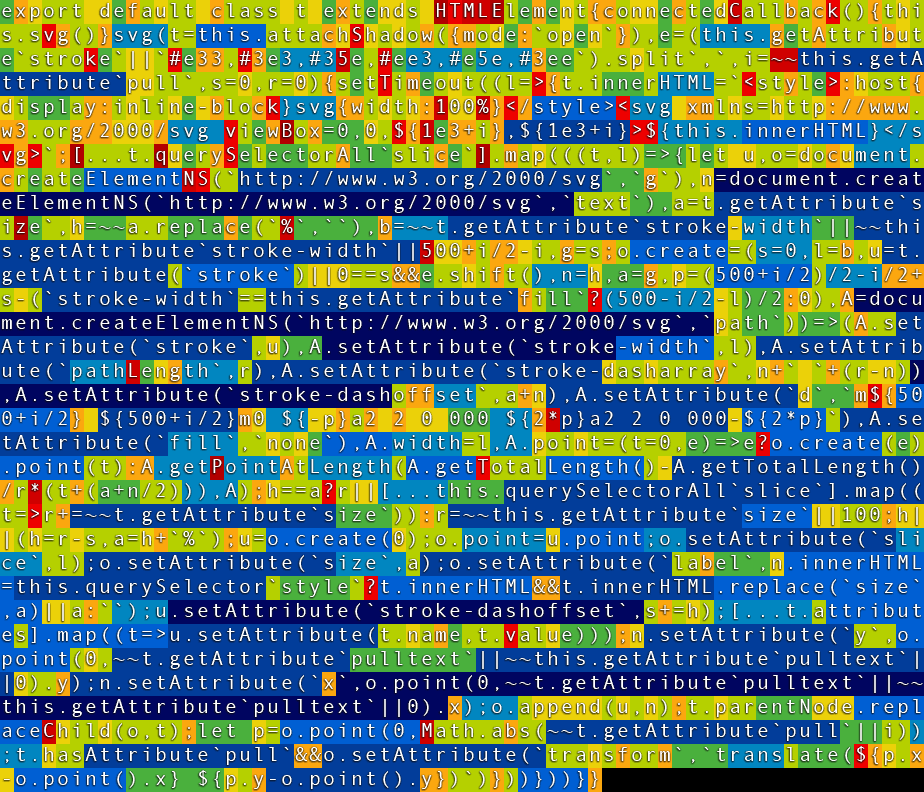
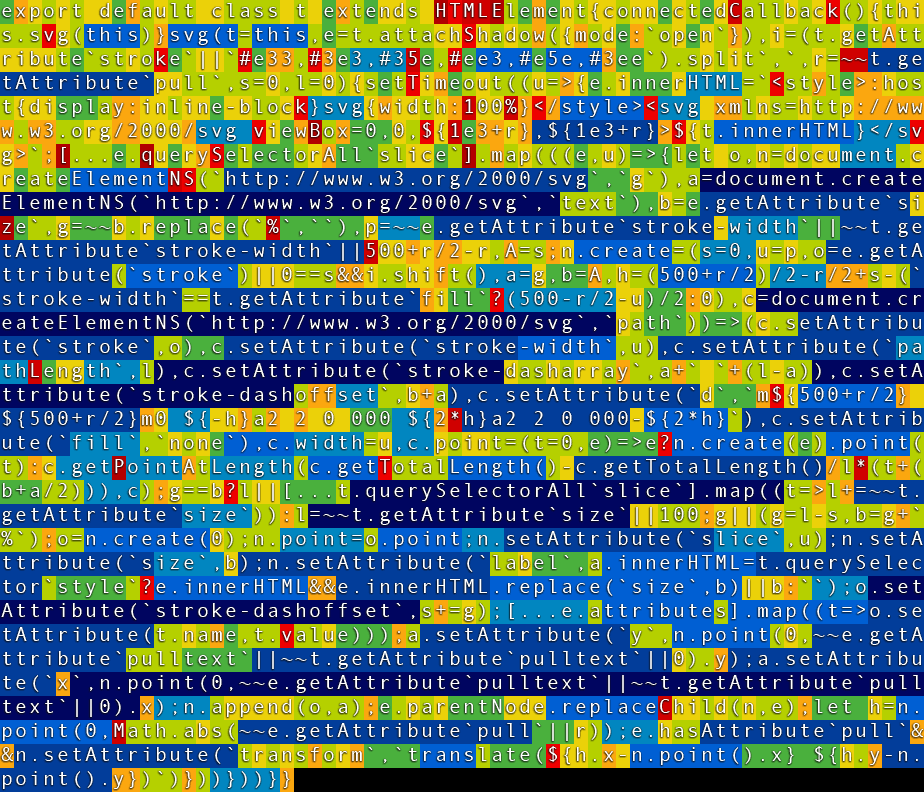
v3

diff --git a/PieMeister.js b/PieMeister.js
@@ -19,7 +19,7 @@ export default class PieMeister extends HTMLElement {
     this.svg();
   }
   // declared as method .svg so user can redraw a chart
-  // this Component does not track for changed attributes (yet)
+  // Component does not track for changed attributes (yet)
   // Process the user-defined lightDOM, create an SVG element, then replace all <slice> with:
   // <g slice> grouped as one slice
   //    <path>  using stroke-dasharray to draw slices!
@@ -31,11 +31,12 @@ export default class PieMeister extends HTMLElement {
       // todo: add constructor
       mode: `open`,
     }),
+    THIS = this,
     // =========================================================================== optional user parameters
-    colors = (this.getAttribute`stroke` || `#e33,#3e3,#35e,#ee3,#e5e,#3ee`)
+    colors = (THIS.getAttribute`stroke` || `#e33,#3e3,#35e,#ee3,#e5e,#3ee`)
       .split`,`, //  #f2e  #962
-    pull = ~~this.getAttribute`pull`, // how far a slice can be pulled outward
-    //gap = Number(this.getAttribute`gap`), //! between slices, messes up % calcs
+    pull = ~~THIS.getAttribute`pull`, // how far a slice can be pulled outward
+    //gap = Number(THIS.getAttribute`gap`), //! between slices, messes up % calcs
     // =========================================================================== configuration
     // Component controlled variables (code golf, saves 4 bytes let statement)
     dashoffset = 0, // clockwise - incremental stroke offset for each slice
@@ -51,10 +52,10 @@ export default class PieMeister extends HTMLElement {
       // default viewBox = 1000 x 1000 extra padding with pull attribute
       root.innerHTML = `<style>:host{display:inline-block}svg{width:100%}</style><svg xmlns=http://www.w3.org/2000/svg viewBox=0,0,${
         1000 + pull
-      },${1000 + pull}>${this.innerHTML}</svg>`;
+      },${1000 + pull}>${THIS.innerHTML}</svg>`;
       // append user <slice> as HTML so we keep all <slice>
       // =========================================================================== convert <slice>s to paths
-      //this.$ = [...root.querySelectorAll`slice`].map((sliceDefinition, idx) => {
+      //THIS.$ =
       [...root.querySelectorAll`slice`].map((sliceDefinition, idx) => {
         // <g> is the slice containing <path> and <text> label
         let group = document.createElementNS(`http://www.w3.org/2000/svg`, `g`);
@@ -67,7 +68,7 @@ export default class PieMeister extends HTMLElement {
         // strokeWidth = slice radius size from SVG centerpoint (500,500)
         let strokeWidth =
           ~~sliceDefinition.getAttribute`stroke-width` || // <slice stroke width=X>
-          ~~this.getAttribute`stroke-width` || // <pie-chart stroke width=X>
+          ~~THIS.getAttribute`stroke-width` || // <pie-chart stroke width=X>
           500 + pull / 2 - pull; // default Center + HALF pull margin - the pulled slice distance
         //! slice START dashoffset
         let slice_dashoffset = dashoffset;
@@ -89,7 +90,7 @@ export default class PieMeister extends HTMLElement {
           R = (500 + pull / 2) / 2 /* center point of SVG */ -
             pull / 2 +
             extraRadius -
-            (this.getAttribute`fill` == `stroke-width`
+            (THIS.getAttribute`fill` == `stroke-width`
               ? (500 - pull / 2 - __strokeWidth) / 2
               : 0),
           //! `fill` on <pie-chart> value is not used for anything
@@ -123,7 +124,7 @@ export default class PieMeister extends HTMLElement {
           // function returns the middle of the slice arc
           // becuase the method is defined within! each slice scope all variables for that one slice can be used
           // a class method would require everything as function parameters
-          // this takes more memory (who cares about memory when the full library is 1K?)
+          // takes more memory (who cares about memory when the full library is 1K?)
           // is only slower when you do over a million calls (that is 1000 pies with 1000 slices each)
           // only Mr Creosote (see Youtube) can eat that many pies
           (path.point = (offset = 0, radius) =>
@@ -144,13 +145,13 @@ export default class PieMeister extends HTMLElement {
           // NO % on first size=`N`
           if (!pathLength) {
             // calculate AND set the pathlength for No Percentage pie
-            [...this.querySelectorAll`slice`].map(
+            [...THIS.querySelectorAll`slice`].map(
               //(slice) => (pathLength += ~~slice.getAttribute`size` + gap)
               (slice) => (pathLength += ~~slice.getAttribute`size`)
             );
           }
         } else {
-          pathLength = ~~this.getAttribute`size` || 100; // default 100% pie // todo move to parameter
+          pathLength = ~~THIS.getAttribute`size` || 100; // default 100% pie // todo move to parameter
         }
         // ----------------------------------------------------------- calc remainder slice
         // size=`0` or size= `` calculates % remainder
@@ -168,7 +169,7 @@ export default class PieMeister extends HTMLElement {
         group.setAttribute(
           `label`,
           //! if a <style> is defined show a Label
-          (label.innerHTML = this.querySelector`style` // set the svg innerHTML
+          (label.innerHTML = THIS.querySelector`style` // set the svg innerHTML
             ? /* if sliceBase has a label */ (sliceDefinition.innerHTML &&
                 /* then replace % */ sliceDefinition.innerHTML.replace(
                   `size`,
@@ -194,7 +195,7 @@ export default class PieMeister extends HTMLElement {
           group.point(
             0,
             ~~sliceDefinition.getAttribute`pulltext` ||
-              ~~this.getAttribute`pulltext` ||
+              ~~THIS.getAttribute`pulltext` ||
               0
           ).y
         );
@@ -203,7 +204,7 @@ export default class PieMeister extends HTMLElement {
           group.point(
             0,
             ~~sliceDefinition.getAttribute`pulltext` ||
-              ~~this.getAttribute`pulltext` ||
+              ~~THIS.getAttribute`pulltext` ||
               0
           ).x
         );

diff --git a/PieMeister.min.js b/PieMeister.min.js
@@ -1,1 +1,1 @@
-export default class t extends HTMLElement{connectedCallback(){this.svg()}svg(t=this.attachShadow({mode:`open`}),e=(this.getAttribute`stroke`||`#e33,#3e3,#35e,#ee3,#e5e,#3ee`).split`,`,i=~~this.getAttribute`pull`,s=0,r=0){setTimeout((l=>{t.innerHTML=`<style>:host{display:inline-block}svg{width:100%}</style><svg xmlns=http://www.w3.org/2000/svg viewBox=0,0,${1e3+i},${1e3+i}>${this.innerHTML}</svg>`;[...t.querySelectorAll`slice`].map(((t,l)=>{let u,o=document.createElementNS(`http://www.w3.org/2000/svg`,`g`),n=document.createElementNS(`http://www.w3.org/2000/svg`,`text`),a=t.getAttribute`size`,h=~~a.replace(`%`,``),b=~~t.getAttribute`stroke-width`||~~this.getAttribute`stroke-width`||500+i/2-i,g=s;o.create=(s=0,l=b,u=t.getAttribute(`stroke`)||0==s&&e.shift(),n=h,a=g,p=(500+i/2)/2-i/2+s-(`stroke-width`==this.getAttribute`fill`?(500-i/2-l)/2:0),A=document.createElementNS(`http://www.w3.org/2000/svg`,`path`))=>(A.setAttribute(`stroke`,u),A.setAttribute(`stroke-width`,l),A.setAttribute(`pathLength`,r),A.setAttribute(`stroke-dasharray`,n+` `+(r-n)),A.setAttribute(`stroke-dashoffset`,a+n),A.setAttribute(`d`,`m${500+i/2} ${500+i/2}m0 ${-p}a2 2 0 000 ${2*p}a2 2 0 000-${2*p}`),A.setAttribute(`fill`,`none`),A.width=l,A.point=(t=0,e)=>e?o.create(e).point(t):A.getPointAtLength(A.getTotalLength()-A.getTotalLength()/r*(t+(a+n/2))),A);h==a?r||[...this.querySelectorAll`slice`].map((t=>r+=~~t.getAttribute`size`)):r=~~this.getAttribute`size`||100;h||(h=r-s,a=h+`%`);u=o.create(0);o.point=u.point;o.setAttribute(`slice`,l);o.setAttribute(`size`,a);o.setAttribute(`label`,n.innerHTML=this.querySelector`style`?t.innerHTML&&t.innerHTML.replace(`size`,a)||a:``);u.setAttribute(`stroke-dashoffset`,s+=h);[...t.attributes].map((t=>u.setAttribute(t.name,t.value)));n.setAttribute(`y`,o.point(0,~~t.getAttribute`pulltext`||~~this.getAttribute`pulltext`||0).y);n.setAttribute(`x`,o.point(0,~~t.getAttribute`pulltext`||~~this.getAttribute`pulltext`||0).x);o.append(u,n);t.parentNode.replaceChild(o,t);let p=o.point(0,Math.abs(~~t.getAttribute`pull`||i));t.hasAttribute`pull`&&o.setAttribute(`transform`,`translate(${p.x-o.point().x} ${p.y-o.point().y})`)}))}))}}
+export default class t extends HTMLElement{connectedCallback(){this.svg(this)}svg(t=this,e=t.attachShadow({mode:`open`}),i=(t.getAttribute`stroke`||`#e33,#3e3,#35e,#ee3,#e5e,#3ee`).split`,`,r=~~t.getAttribute`pull`,s=0,l=0){setTimeout((u=>{e.innerHTML=`<style>:host{display:inline-block}svg{width:100%}</style><svg xmlns=http://www.w3.org/2000/svg viewBox=0,0,${1e3+r},${1e3+r}>${t.innerHTML}</svg>`;[...e.querySelectorAll`slice`].map(((e,u)=>{let o,n=document.createElementNS(`http://www.w3.org/2000/svg`,`g`),a=document.createElementNS(`http://www.w3.org/2000/svg`,`text`),b=e.getAttribute`size`,g=~~b.replace(`%`,``),p=~~e.getAttribute`stroke-width`||~~t.getAttribute`stroke-width`||500+r/2-r,A=s;n.create=(s=0,u=p,o=e.getAttribute(`stroke`)||0==s&&i.shift(),a=g,b=A,h=(500+r/2)/2-r/2+s-(`stroke-width`==t.getAttribute`fill`?(500-r/2-u)/2:0),c=document.createElementNS(`http://www.w3.org/2000/svg`,`path`))=>(c.setAttribute(`stroke`,o),c.setAttribute(`stroke-width`,u),c.setAttribute(`pathLength`,l),c.setAttribute(`stroke-dasharray`,a+` `+(l-a)),c.setAttribute(`stroke-dashoffset`,b+a),c.setAttribute(`d`,`m${500+r/2} ${500+r/2}m0 ${-h}a2 2 0 000 ${2*h}a2 2 0 000-${2*h}`),c.setAttribute(`fill`,`none`),c.width=u,c.point=(t=0,e)=>e?n.create(e).point(t):c.getPointAtLength(c.getTotalLength()-c.getTotalLength()/l*(t+(b+a/2))),c);g==b?l||[...t.querySelectorAll`slice`].map((t=>l+=~~t.getAttribute`size`)):l=~~t.getAttribute`size`||100;g||(g=l-s,b=g+`%`);o=n.create(0);n.point=o.point;n.setAttribute(`slice`,u);n.setAttribute(`size`,b);n.setAttribute(`label`,a.innerHTML=t.querySelector`style`?e.innerHTML&&e.innerHTML.replace(`size`,b)||b:``);o.setAttribute(`stroke-dashoffset`,s+=g);[...e.attributes].map((t=>o.setAttribute(t.name,t.value)));a.setAttribute(`y`,n.point(0,~~e.getAttribute`pulltext`||~~t.getAttribute`pulltext`||0).y);a.setAttribute(`x`,n.point(0,~~e.getAttribute`pulltext`||~~t.getAttribute`pulltext`||0).x);n.append(o,a);e.parentNode.replaceChild(n,e);let h=n.point(0,Math.abs(~~e.getAttribute`pull`||r));e.hasAttribute`pull`&&n.setAttribute(`transform`,`translate(${h.x-n.point().x} ${h.y-n.point().y})`)}))}))}}

diff --git a/demo_assets/elements.pie-meister.site-elements.js b/demo_assets/elements.pie-meister.site-elements.js
@@ -1,3 +1,34 @@
+/*
+  Under active development
+
+  For questions contact: Danny@Engelman.nl
+
+*/
+
+document.addEventListener("DOMContentLoaded", () => {
+  console.log("%c PieMeister ","background:purple;color:yellow");
+  setTimeout(() => {
+    let pies = document.querySelector("#pies");
+    // pies.addEventListener("slice", (evt) => {
+    //   let slice = evt.target.slice;
+    //   slice.pull(!slice.pulled);
+    // });
+    let slices = [...pies.shadowRoot.querySelectorAll("g")];
+    slices.map((slice, idx) => {
+      if (idx == 5) {
+        let svg = slice.parentNode;
+        let strokeWidth = ~~slice
+          .querySelector("path")
+          .getAttribute("stroke-width");
+        // add a crust
+        let p1 = slice.create(strokeWidth / 2, 20, "brown"); //radius,slicesize,stroke-width,color
+        p1.setAttribute("opacity", "1");
+        slice.append(p1);
+      }
+    });
+  }, 0);
+});
+
 function stripControlCharacters(s) {
   return s
     .split("")
@@ -83,7 +114,6 @@ customElements.define(
       let src =
         this.getAttribute("src") ||
         "https://qomponents.github.io/class/PieMeister.min.js";
-      console.log(src);
       fetch(src).then(
         (res) =>
           (this.innerHTML =
@@ -108,7 +138,6 @@ customElements.define(
   class extends HTMLElement {
     connectedCallback() {
       if (this.hasAttribute("hide")) {
-        console.log(this);
         //this.closest("pie-demo").style.setProperty("--description-fr","0fr")
         //this.closest("pie-demo").style.setProperty("--pie-fr","2fr");
         this.remove();
@@ -122,7 +151,6 @@ customElements.define(
   class extends HTMLElement {
     connectedCallback() {
       let html1 = (str, ...v) => {
-        console.log(str.raw, "\n", v);
         if (typeof v == "string") return v;
         try {
           // return new Function("v", "return((" + Object.keys(v).join(",") + ")=>`" + str + "`)(...Object.values(v))")(v);
@@ -133,7 +161,6 @@ customElements.define(
       };
       function html(strings, ...keys) {
         return function (...values) {
-          console.log(20, values);
           let dict = values[values.length - 1] || {};
           let result = [strings[0]];
           keys.forEach(function (key, i) {
@@ -215,28 +242,7 @@ customElements.define(
   }
 );
 
-document.addEventListener("DOMContentLoaded", () => {
-  console.log("DOMContentLoaded");
-  setTimeout(() => {
-    let pies = document.querySelector("#pies");
-    // pies.addEventListener("slice", (evt) => {
-    //   let slice = evt.target.slice;
-    //   slice.pull(!slice.pulled);
-    // });
-    let slices = [...pies.shadowRoot.querySelectorAll("g")];
-    slices.map((slice, idx) => {
-      if (idx == 2) {
-        let svg = slice.parentNode;
-        let p1 = slice.create(180, 20, "brown"); //radius,slicesize,stroke-width,color
-        console.log(p1.point());
-        p1.setAttribute("opacity", "1");
-        slice.append(p1);
-      }
-    });
-  }, 0);
-});
-
-function Development() {
+function Qomponents_Development_Extension() {
   function attachPullHandlers() {
     // [...document.querySelectorAll("pie-chart[pull]")].map(pieChart=>{
     //   pieChart.addEventListener("slice", (evt) => {

diff --git a/index.html b/index.html
@@ -127,10 +127,10 @@ attr-setting{
           <br>
           <h1><meister-name></meister-name></h1>
           <p>
-            [I should place my original 1994 "Under Construction" web-site banner here, but I haven't found it yet in my backups...]
+            [should place my original "Under Construction" web-site banner here, but haven't found my 1994 backups yet...]
           </p>
           <p>
-            [Todo:] Write a cool intro explaining how Web Components saved me from a unhealthy JSX addiction and rekindled my love for semantic HTML.
+            Todo: Write cool intro explaining how Web Components saved me from a unhealthy JSX addiction<br> and rekindled my love for semantic HTML.
           </p>
           <p>
             A client wanted to <b>draw pie charts easily</b>, and display them on a high volume fast web page.
